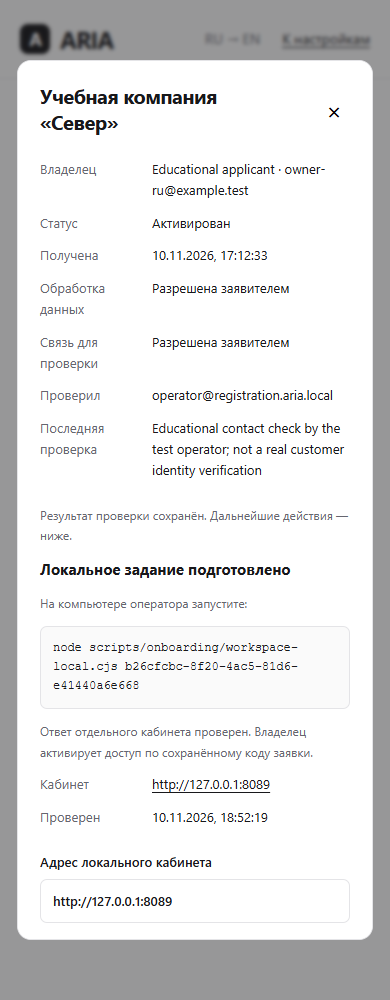
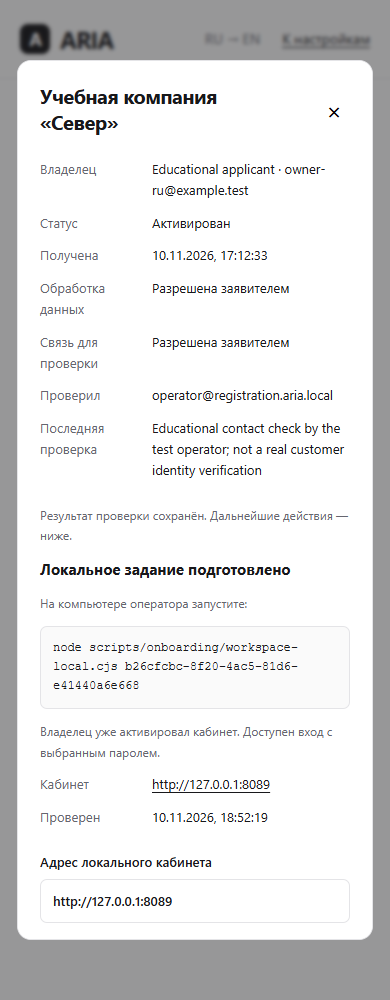
Verify company backup recovery in isolated databases and packaged UI

Changed region(s): [[0.0923, 0.713, 0.8308, 0.775]]

diff --git a/src/main/resources/static/js/company-signup.js b/src/main/resources/static/js/company-signup.js
@@ -2,6 +2,7 @@
  const copy={login:['Вход оператора','Operator sign-in'],title:['Начните работу с ARIA','Start with ARIA'],eyebrow:['Для вашего бизнеса','For your business'],intro:['Оставьте заявку. Оператор проверит контакт и подготовит кабинет с отдельными данными вашей компании.','Request a workspace. An operator checks your contact and prepares a workspace with your company’s own data.'],step1:['Заявка','Application'],step1note:['Название компании и контакт владельца.','Company name and owner contact.'],step2:['Проверка','Review'],step2note:['Оператор проверяет контакт и полномочия.','An operator checks the contact and authority.'],step3:['Собственный кабинет','Your workspace'],step3note:['Отдельные данные компании. Затем — магазин и ARIA AI.','Isolated company data, followed by store connection and ARIA AI.'],form:['Заявка на кабинет','Request a workspace'],company:['Название компании','Company name'],name:['Ваше имя','Your name'],email:['Email для связи','Contact email'],processing:['Разрешаю хранить введённые данные для рассмотрения заявки и подготовки кабинета.','I allow these details to be stored to review this application and prepare a workspace.'],contact:['Разрешаю оператору связаться со мной для проверки контакта и полномочий.','I allow an operator to contact me to verify my contact and authority.'],notice:['Это заявка: аккаунт и кабинет ещё не создаются. Данные не передаются внешнему AI. Проверка email не выполняется автоматически.','This is an application: no account or workspace is created yet. Details are not sent to external AI. Email is not verified automatically.'],submit:['Отправить заявку','Submit application'],sending:['Сохраняем…','Saving…'],restore:['У меня уже есть код заявки','I already have an application code'],receipt:['Код доступа к заявке','Application access code'],open:['Открыть заявку','Open application'],saved:['Заявка сохранена','Application saved'],download:['Скачать код заявки','Download application code'],downloadnote:['Сохраните код: он нужен для просмотра статуса с другого устройства. Не передавайте его посторонним.','Keep this code to check the status from another device. Do not share it with others.'],refresh:['Проверить статус','Check status'],again:['Новая заявка','New application'],notready:['Кабинет ещё не создан','Your workspace has not been created yet'],notreadynote:['После проверки оператор подготовит ваш кабинет. Затем можно будет подключить магазин и настроить ARIA AI.','After review, an operator prepares your workspace. You can then connect a store and set up ARIA AI.'],SUBMITTED:['Ожидает проверки','Awaiting review'],IN_REVIEW:['Оператор проверяет заявку','Operator review in progress'],VERIFIED:['Контакт и полномочия проверены оператором','Contact and authority checked by operator'],REJECTED:['Заявка отклонена','Application declined'],unavailable:['Приём заявок здесь не включён. Обратитесь к оператору платформы.','Applications are not enabled here. Contact the platform operator.'],retry:['Повторить','Try again'],newchallenge:['Обновить проверку','Refresh challenge'],codeerror:['Проверьте сохранённый код заявки.','Check your saved application code.'],network:['Не удалось связаться с сервером. Повторите запрос; сохранённый номер защитит от дублей.','Could not reach the server. Retry the request; the saved application number prevents duplicates.'],received:['Получено','Received'],facts:['Данные заявки','Application details'],statusTitle:['Статус заявки','Application status'],statusIntro:['Проверяйте результат по сохранённому коду. Следующий шаг — подготовка вашего кабинета оператором.','Check progress using your saved code. The next step is preparing your workspace with the operator.']};
  Object.assign(copy,{PREPARING:['Готовится отдельный кабинет','Preparing your workspace'],READY:['Кабинет готов к активации','Workspace ready to activate'],ACTIVE:['Кабинет активирован','Workspace activated'],ACTIVATION_EXPIRED:['Срок активации истёк','Activation expired'],ready:['Ваш кабинет готов','Your workspace is ready'],readynote:['Задайте пароль владельца. После входа можно подключить магазин.','Choose the owner’s password. Connect your store after signing in.'],activate:['Активировать кабинет','Activate workspace'],signin:['Войти в кабинет','Open workspace'],expired:['Для нового кода активации обратитесь к оператору.','Contact the operator for a new activation code.'],checked:['Последняя проверка кабинета','Last workspace check']});
  copy.activeNote=['Войдите с email из заявки и своим паролем. Магазины подключаются в вашем кабинете.','Sign in with your application email and your password. Connect stores in your workspace.'];copy.expiredTitle=['Нужен новый код активации','A new activation code is needed'];
+ copy.activeIntro=['Кабинет активирован. После входа подключите магазин и настройте ARIA AI.','Your workspace is activated. Sign in to connect a store and set up ARIA AI.'];copy.readyIntro=['Кабинет подготовлен и проверен. Задайте пароль владельца, чтобы начать работу.','Your workspace has been prepared and verified. Choose the owner’s password to get started.'];
  const t=k=>(copy[k]||[k,k])[ariaCopy.language==='en'?1:0],esc=value=>String(value??'').replace(/[&<>"']/g,c=>({'&':'&amp;','<':'&lt;','>':'&gt;','"':'&quot;',"'":'&#39;'}[c]));
  const root=document.getElementById('signup-root'),key='aria_company_application';let receipt=null,working=false;
  document.title=t('form')+' · ARIA';document.getElementById('signup-login').textContent=t('login');document.getElementById('signup-login').href='/company-requests.html';
@@ -15,6 +16,7 @@
  function restoreHandler(){const form=document.getElementById('signup-restore');if(!form)return;form.onsubmit=async event=>{event.preventDefault();if(working)return;const code=new FormData(form).get('code').trim().split('.');const candidate={id:code[0],token:code[1]};if(!valid(candidate)){form.querySelector('[role=alert]').textContent=t('codeerror');return;}const button=form.querySelector('button');busy(true);try{const value=await api('/requests/'+candidate.id,'GET',null,candidate.token);receipt=candidate;sessionStorage.setItem(key,JSON.stringify(receipt));status(value);}catch(error){form.querySelector('[role=alert]').textContent=error.message;}finally{busy(false);}};}
  function status(value){const ready=value.workspaceReady===true&&value.workspaceUrl==='http://127.0.0.1:8089',expired=value.status==='ACTIVATION_EXPIRED',heading=expired?'expiredTitle':ready?'ready':'notready',note=value.status==='ACTIVE'?'activeNote':ready?'readynote':expired?'expired':'notreadynote';frame(`<span class="signup-status">${t(value.status)}</span><h2 data-merchant-content>${esc(value.companyName)}</h2><p class="signup-muted">${esc(value.email)}</p><label class="signup-form">${t('receipt')}<input class="signup-code" type="password" id="signup-receipt" value="${receipt.id+'.'+receipt.token}" readonly autocomplete="off"></label><p class="signup-note">${t('downloadnote')}</p><div class="signup-actions"><button class="signup-button" type="button" id="signup-download">${t('download')}</button><button class="signup-button secondary" type="button" id="signup-refresh">${t('refresh')}</button></div><div class="signup-not-ready"><strong>${t(heading)}</strong><p class="signup-note">${t(note)}</p>${ready?`<a class="signup-button" id="signup-activate" referrerpolicy="no-referrer">${t(value.status==='ACTIVE'?'signin':'activate')}</a><p class="signup-note">${t('checked')}: ${new Date(value.workspaceCheckedAt).toLocaleString(ariaCopy.locale())}</p>`:''}</div><p class="signup-note">${t('received')}: ${new Date(value.createdAt).toLocaleString(ariaCopy.locale())}</p><p role="alert" class="signup-error" id="signup-error"></p><button class="signup-button secondary" id="signup-new" type="button">${t('again')}</button>`,true);
   if(ready)document.getElementById('signup-activate').href=value.workspaceUrl+(value.status==='ACTIVE'?'/login.html?next=%2Fcontrol.html%23stores':'/company-activate.html#'+receipt.id+'.'+receipt.token);
+  if(ready)root.querySelector('.signup-layout>section>.signup-muted').textContent=t(value.status==='ACTIVE'?'activeIntro':'readyIntro');
   document.getElementById('signup-download').onclick=()=>{const url=URL.createObjectURL(new Blob([receipt.id+'.'+receipt.token+'\n'],{type:'text/plain;charset=utf-8'}));const link=document.createElement('a');link.href=url;link.download='ARIA-application-'+receipt.id+'.txt';link.click();setTimeout(()=>URL.revokeObjectURL(url),10000);};
   document.getElementById('signup-refresh').onclick=async event=>{if(working)return;busy(true);try{status(await api('/requests/'+receipt.id+(ready?'/refresh-workspace':''),ready?'POST':'GET',null,receipt.token));}catch(error){document.getElementById('signup-error').textContent=error.message;}finally{busy(false);}};
   document.getElementById('signup-new').onclick=()=>{if(working)return;sessionStorage.removeItem(key);receipt=null;form();};

diff --git a/src/main/resources/static/js/company-requests.js b/src/main/resources/static/js/company-requests.js
@@ -2,6 +2,7 @@
  const copy={back:['К настройкам','Settings'],title:['Заявки компаний','Company applications'],intro:['Проверьте контакт и полномочия владельца. Проверенная заявка ещё не означает готовый кабинет.','Check the owner’s contact and authority. A verified application does not mean a workspace is ready.'],refresh:['Обновить','Refresh'],company:['Компания','Company'],owner:['Владелец','Owner'],created:['Получена','Received'],state:['Статус','Status'],action:['Действия','Actions'],details:['Подробнее','Details'],SUBMITTED:['Новая заявка','New application'],IN_REVIEW:['На проверке','Under review'],VERIFIED:['Проверена; нужен кабинет','Verified; workspace pending'],REJECTED:['Отклонена','Declined'],empty:['Заявок пока нет','No applications yet'],nomatch:['По этим условиям ничего не найдено','No applications match these filters'],search:['Поиск по компании или email','Search by company or email'],all:['Все статусы','All statuses'],shown:['Показаны последние заявки, максимум 100.','Shows the latest applications, up to 100.'],reason:['Основание и результаты проверки','Review findings and reason'],next:['Следующий шаг','Next step'],review:['Взять на проверку','Start review'],verify:['Подтвердить проверку','Confirm review'],reject:['Отклонить','Decline'],identity:['Я отдельно проверил контакт и полномочия заявителя.','I independently checked the applicant’s contact and authority.'],save:['Сохранить решение','Save decision'],notice:['Заявка проверена. Следующий шаг — подготовить отдельный кабинет компании.','The application has been reviewed. Next, prepare a separate workspace for the company.'],processing:['Обработка данных','Data processing'],contact:['Связь для проверки','Contact for review'],yes:['Разрешена заявителем','Allowed by applicant'],note:['Последняя проверка','Last review'],by:['Проверил','Reviewed by'],read:['Чтение…','Loading…'],error:['Не удалось загрузить заявки.','Could not load applications.'],unavailable:['Этот раздел доступен только в отдельном кабинете оператора регистрации.','This page is available only in the registration operator workspace.'],close:['Закрыть','Close'],closed:['Решение об отказе сохранено.','The decline decision has been saved.']};
  Object.assign(copy,{PREPARING:['Кабинет готовится','Preparing workspace'],READY:['Готов к активации','Ready to activate'],ACTIVE:['Активирован','Activated'],ACTIVATION_EXPIRED:['Активация истекла','Activation expired'],prepare:['Подготовить кабинет','Prepare workspace'],prepareNote:['Создайте закрытое задание. Служебная команда на сервере подготовит отдельную базу и кабинет.','Create a private job. A server-local operator command prepares a separate database and workspace.'],job:['Локальное задание подготовлено','Local job prepared'],command:['На компьютере оператора запустите:','Run on the operator’s computer:'],verifyWorkspace:['Проверить готовность','Check readiness'],url:['Адрес локального кабинета','Local workspace address'],localOnly:['Сейчас проверяется только отдельный локальный кабинет. Онлайн-подключение окружений ещё не включено.','Only the isolated local workspace can be checked at this stage. Online environment provisioning is not enabled.'],verifiedWorkspace:['Ответ отдельного кабинета проверен. Владелец активирует доступ по сохранённому коду заявки.','The separate workspace response was verified. The owner activates access using their saved application code.'],workspace:['Кабинет','Workspace'],checked:['Проверен','Checked']});
  copy.notice=['Результат проверки сохранён. Дальнейшие действия — ниже.','The review has been saved. Next steps are below.'];
+ copy.activeWorkspace=['Владелец уже активировал кабинет. Доступен вход с выбранным паролем.','The owner has activated this workspace and can sign in with their chosen password.'];
  const t=k=>(copy[k]||[k,k])[ariaCopy.language==='en'?1:0],esc=v=>String(v??'').replace(/[&<>"']/g,c=>({'&':'&amp;','<':'&lt;','>':'&gt;','"':'&quot;',"'":'&#39;'}[c]));const root=document.getElementById('signup-operator'),dialog=document.getElementById('signup-dialog');let items=[],query='',filter='';
  document.title=t('title')+' · ARIA';document.getElementById('signup-back').textContent=t('back');document.getElementById('signup-close').setAttribute('aria-label',t('close'));document.getElementById('signup-close').onclick=()=>dialog.close();
  async function api(path,method='GET',body){const response=await ariaAuth.authFetch('/api/admin/company-signup'+path,{method,headers:{...(body?{'Content-Type':'application/json'}:{})},...(body?{body:JSON.stringify(body)}:{})});let value=await response.json();if(!response.ok)throw new Error(ariaCopy.errorText(value.message||value.error,response.status));return value;}
@@ -16,7 +17,7 @@
  function provision(r){
   const body=document.getElementById('signup-dialog-body');if(r.status==='REJECTED')return;
   if(r.status==='VERIFIED')body.insertAdjacentHTML('beforeend',`<p class="signup-note">${t('prepareNote')}</p><button class="signup-button" type="button" id="signup-prepare">${t('prepare')}</button><p role="alert" class="signup-error" id="signup-provision-error"></p>`);
-  else body.insertAdjacentHTML('beforeend',`<h3>${t('job')}</h3><p class="signup-note">${t('command')}</p><pre class="signup-command">node scripts/onboarding/workspace-local.cjs ${esc(r.id)}</pre>${r.workspaceUrl?`<p class="signup-note">${t('verifiedWorkspace')}</p><dl class="signup-details"><dt>${t('workspace')}</dt><dd><a href="http://127.0.0.1:8089/login.html">http://127.0.0.1:8089</a></dd><dt>${t('checked')}</dt><dd>${when(r.workspaceCheckedAt)}</dd></dl>`:''}<form id="signup-verify-workspace" class="signup-form"><label>${t('url')}<input name="address" type="url" value="http://127.0.0.1:8089" readonly required></label><p class="signup-note">${t('localOnly')}</p><p role="alert" class="signup-error"></p><button class="signup-button" type="submit">${t('verifyWorkspace')}</button></form>`);
+  else body.insertAdjacentHTML('beforeend',`<h3>${t('job')}</h3><p class="signup-note">${t('command')}</p><pre class="signup-command">node scripts/onboarding/workspace-local.cjs ${esc(r.id)}</pre>${r.workspaceUrl?`<p class="signup-note">${t(r.status==='ACTIVE'?'activeWorkspace':'verifiedWorkspace')}</p><dl class="signup-details"><dt>${t('workspace')}</dt><dd><a href="http://127.0.0.1:8089/login.html">http://127.0.0.1:8089</a></dd><dt>${t('checked')}</dt><dd>${when(r.workspaceCheckedAt)}</dd></dl>`:''}<form id="signup-verify-workspace" class="signup-form"><label>${t('url')}<input name="address" type="url" value="http://127.0.0.1:8089" readonly required></label><p class="signup-note">${t('localOnly')}</p><p role="alert" class="signup-error"></p><button class="signup-button" type="submit">${t('verifyWorkspace')}</button></form>`);
   const prepare=document.getElementById('signup-prepare');if(prepare)prepare.onclick=async()=>{prepare.disabled=true;try{await api('/requests/'+r.id+'/prepare','POST',{version:r.version});await load();open(items.find(v=>v.id===r.id));}catch(error){document.getElementById('signup-provision-error').textContent=error.message;}finally{prepare.disabled=false;}};
   const form=document.getElementById('signup-verify-workspace');if(form)form.onsubmit=async event=>{event.preventDefault();const button=form.querySelector('button');button.disabled=true;try{await api('/requests/'+r.id+'/verify','POST',{version:r.version,address:form.elements.address.value});await load();open(items.find(v=>v.id===r.id));}catch(error){form.querySelector('[role=alert]').textContent=error.message;}finally{button.disabled=false;}};
  }

diff --git a/docs/onboarding/README_RU.md b/docs/onboarding/README_RU.md
@@ -39,6 +39,12 @@
 - Старые доказательства этапа 1а (259 тестов, форма/потеря ответа/восстановление, конфликт сессий, 16 видов, рестарт) сохранены как история. Прежние 194 посещения всей платформы этим этапом заново не выполнялись.
 - Словарь: 1837 ключей, 48 скриптов; проверки копий и безопасного возврата после входа проходят.
 
+## Реальное восстановление
+
+`node scripts/onboarding/verify-recovery.cjs` использует существующие `backup-postgres.ps1` / `restore-postgres.ps1`: два настоящих дампа в закрытой `data/onboarding/recovery`, SHA-256, новые случайные БД/ограниченные роли, транзакционное восстановление без `--clean`. Проверены отказ при неверной контрольной сумме и повторная запись поверх заполненной копии. Совпали хеши записей компании, пользователей, заявок, активации, журнала, каталога и исходных данных до/после.
+
+Оба восстановленных приложения запускаются под новыми ограниченными владельцами. Проверены настоящий вход оператора/владельца, прежний код заявки, ACTIVE, расшифровка настроек отдельно сохранённым ключом, подписанная аттестация и браузер 390/1440 px **из упакованного JAR**. Временные процессы 8090/8091 остановлены; основные 8088/8089 сохраняются. `evidence/recovery-v34.json`; дампы/секреты не в Git. Это локальная проверка учебных компаний, не внешнее защищённое хранилище или автоматический disaster recovery в облаке.
+
 ## Ограничения
 
 Поддерживается один новый локальный учебный кабинет. Вторая заявка не получает чужую БД. Перевыпуск/отзыв истёкшей активации, сотрудники OWNER/ADMIN/MANAGER/WAREHOUSE, положительный live-AUTOPILOT и внешний магазин предпринимателя остаются в плане. OpenRouter этого этапа не вызывался, новые AI-согласия не выставлялись.

diff --git a/docs/onboarding/NEXT_STEPS_RU.md b/docs/onboarding/NEXT_STEPS_RU.md
@@ -1,6 +1,6 @@
 # Точка продолжения ARIA
 
-Сначала `git status`, `codex/production-foundation`, HEAD/remote. Сохранить все изменения. Основа `822e2cd`; этап 1а `f99c403`, CI успешен. Следующий коммит завершает локальный этап 1б. Main, production Render, рабочие БД и согласия других компаний не менять.
+Сначала `git status`, `codex/production-foundation`, HEAD/remote. Сохранить все изменения. Основа `822e2cd`; этап 1а `f99c403`, локальный этап 1б `9230515`, оба CI успешны. Следующий коммит добавляет проверку восстановления. Main, production Render, рабочие БД и согласия других компаний не менять.
 
 ## Уже работает
 
@@ -12,7 +12,7 @@ RU-заявка уже ACTIVE; EN остаётся VERIFIED. Всего 3 уче
 
 ## Ближайшие шаги
 
-1. Проверить восстановление портала и кабинета из настоящих локальных дампов **в новые БД/роли**, не поверх исходных. Подтвердить заявки, активацию, пароль и запуск восстановленного процесса. Дампы/ключи/контакты только в закрытой `data/onboarding`, в Git обезличенное доказательство.
+1. Восстановление **проверено**: два настоящих дампа, новые БД/ограниченные роли, хеши совпали, пароль/код/активация работают, оба JAR открыты в браузере 390/1440. Неверная SHA и непустая БД отклоняются. Исходные базы неизменны, временные процессы остановлены. `evidence/recovery-v34.json`; повторять при изменении схемы/сценария. Дампы/контакты/ключи в закрытой `data/onboarding`, не Git.
 2. Сотрудники: сначала фактические Role/SecurityConfig/JwtService и все маршруты. Silo-API сейчас требуют ADMIN. Не добавлять роли только в UI и не ослаблять guard без полной матрицы.
 
 ## Следующий продуктовый этап: сотрудники

diff --git a/docs/onboarding/OWNER_GUIDE_RU.md b/docs/onboarding/OWNER_GUIDE_RU.md
@@ -26,4 +26,6 @@
 
 На двух настоящих локальных Java-процессах/PostgreSQL: подготовка, подпись, пароль, вход, чужие коды/токены, одноразовость, рестарт. 276 серверных тестов, 48 новых видов RU/EN. Новый кабинет пустой. Прежний установленный WooCommerce и сохранённый ответ OpenRouter принадлежат другой учебной компании.
 
+Также реально восстановлены оба окружения из копий в новые базы: вход, код заявки, пароль и активация сохранились; исходные базы не заменялись. Команда оператора — `node scripts/onboarding/verify-recovery.cjs`, только для этих учебных баз. Дампы остаются в закрытой локальной папке; внешнее хранилище и расписание ещё не настроены. Нужны и дамп, и отдельно сохранённые серверные ключи/шифрованные настройки.
+
 Сотрудники, публичное предоставление окружений и положительный live-автопилот остаются в плане. Main, рабочую БД и основной Render без отдельного разрешения не переключать.
